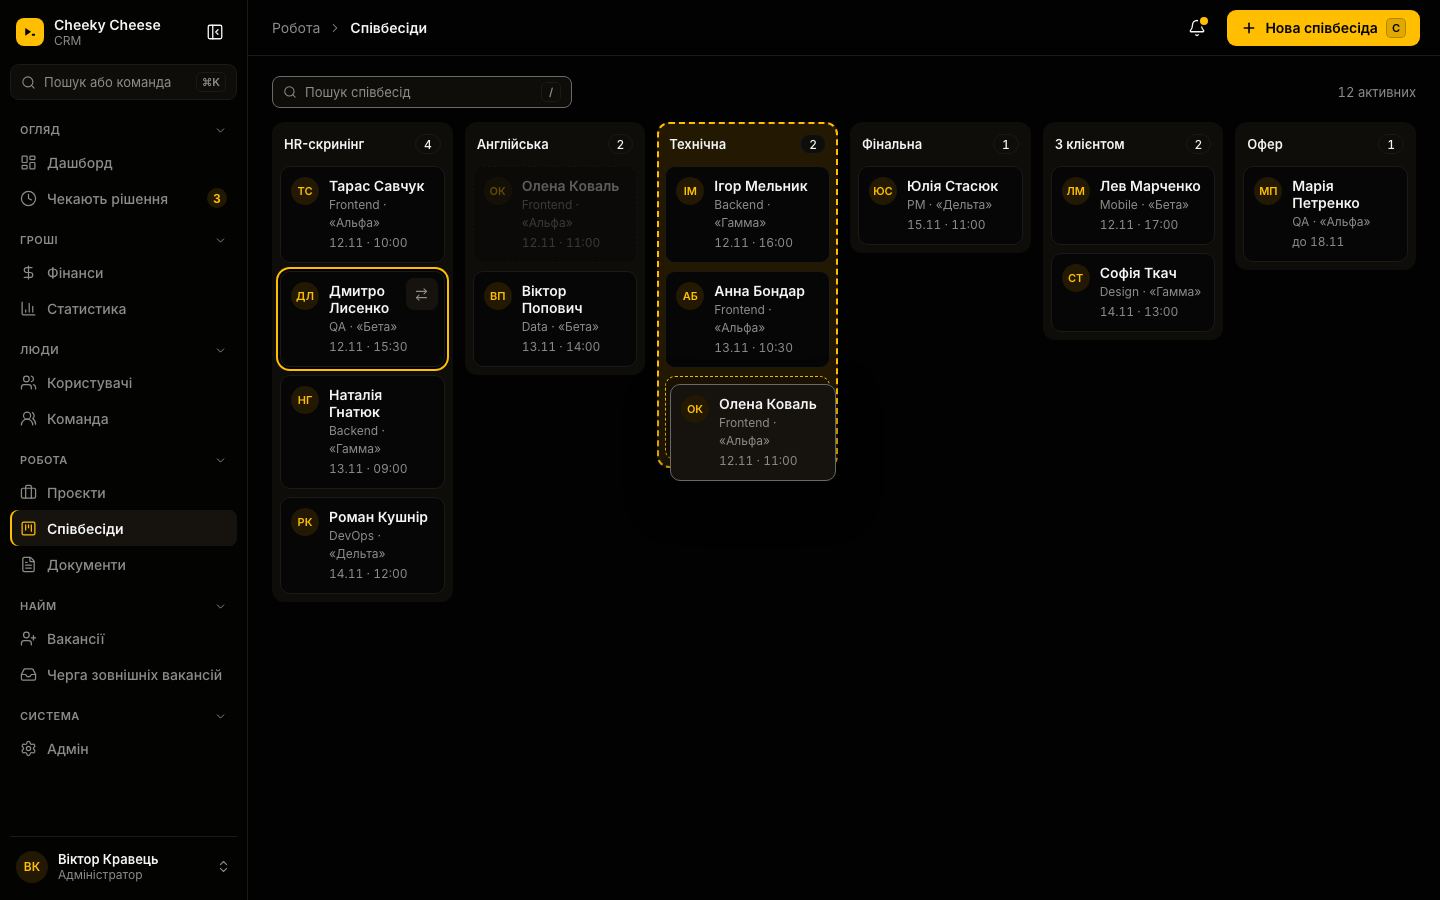
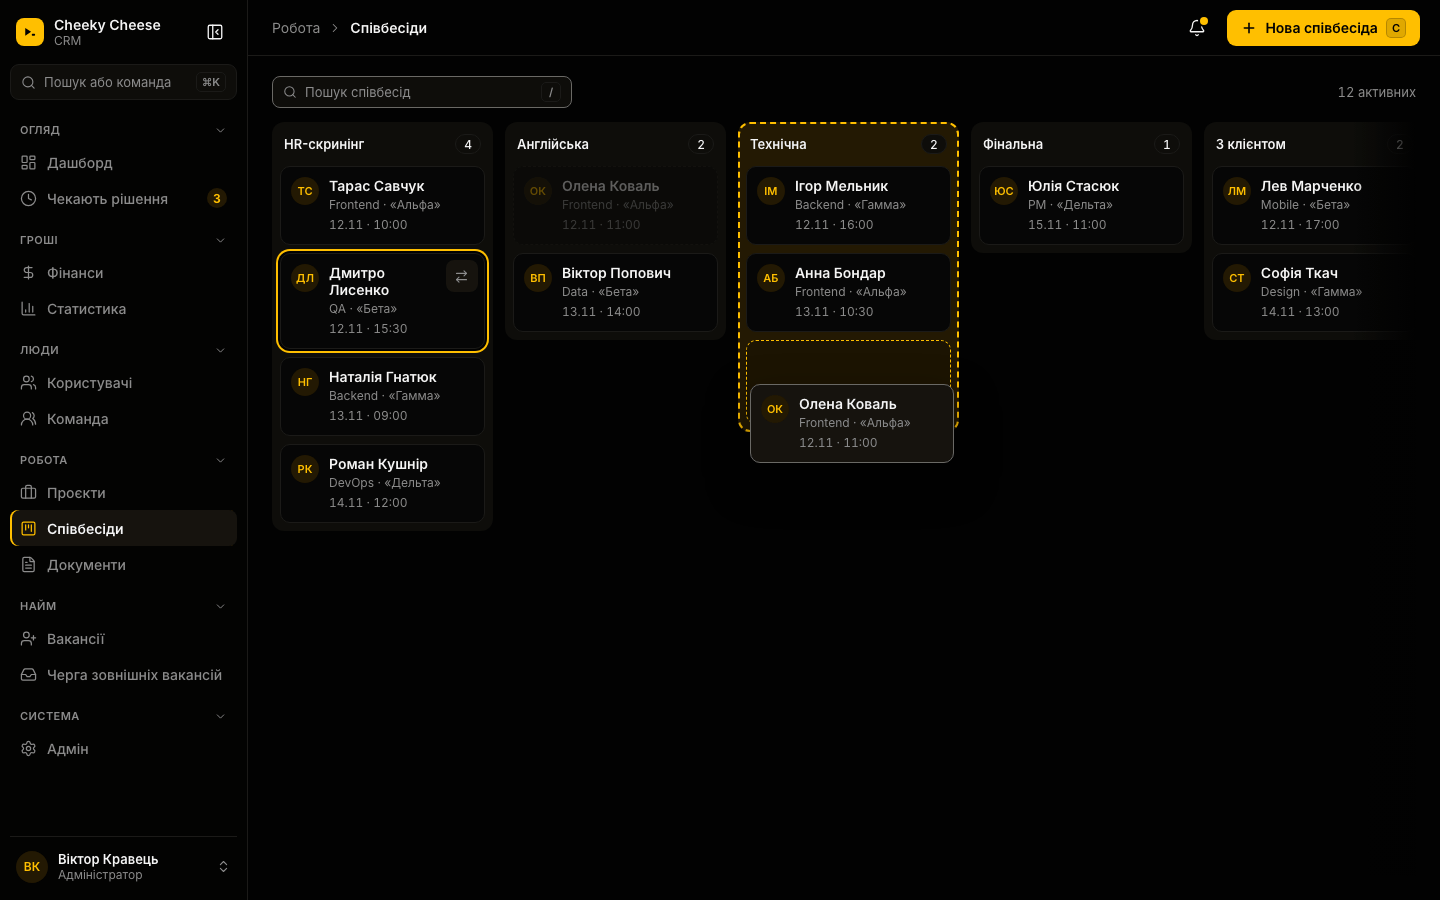
wip: design council r6 — R5-14 board widths, R5-15 save error labels

Changed region(s): [[0.3125, 0.1244, 0.9375, 0.5289], [0.1875, 0.2178, 0.3438, 0.6222]]

diff --git a/docs/design/screens/_foundation/primitives-v2.md b/docs/design/screens/_foundation/primitives-v2.md
@@ -175,7 +175,7 @@ translucent bar with blur while stuck; date sections show the day total on the r
 loaded page hides its total until the next page loads (no extra request).
 **Row rule:** §12.0 holds it for every row at every width (`listrow-sticky-320`, `list-footer-375`, `list-footer-320`, `listrow-768`); no other passage restates it.
 
-**Board** (`board-1440`, `board-768`, `board-stage-sheet-375`, `board-undo-375`, `board-hire-confirm-375`; today the interviews pipeline). At ≥ 640: one column per active stage, `minmax(180px, 1fr)` capped at 280 px, so the columns share the width and no stage is clipped while space is left (`board-1440`). Only when the stages do not fit at 180 px does the board scroll sideways: a fade on the clipped edge, plus a visible scrollbar for the mouse (`board-768`). A touch drag held within 48 px of the board's left or right edge scrolls the board that way. The column header holds the stage name and its count
+**Board** (`board-1440`, `board-768`, `board-stage-sheet-375`, `board-undo-375`, `board-hire-confirm-375`; today the interviews pipeline). At ≥ 640: one column per active stage; **column widths are the one rule in §12 Board (R5-14)**. When the stages do not fit, the board scrolls sideways: a fade on the clipped edge, plus a visible scrollbar for the mouse (`board-768`, `board-1440`). A touch drag held within 48 px of the board's left or right edge scrolls the board that way. The column header holds the stage name and its count
 (`tabular-nums`; the accessible name reads «Технічна, 2»). A card shows initials, the name (wraps, never
 truncates), one muted line (role · project) and a date (`tabular-nums`). **Card states:** rest; at a fine pointer, hover or focus shows a 32 px «Змінити етап» button in the top-right corner (tooltip «Змінити етап (M)»; focus ring per foundation §13); under `(pointer: coarse)` that button is always visible with a 44 px hit area (foundation §13, `board-768`); the **drag
 source** stays in place at 35 % opacity with a dashed border; the **lifted card** follows the pointer,
@@ -708,7 +708,7 @@ Re-render: `node assets/src/render.mjs primitives [filter]`, then `assets/src/co
   definite = 4xx + app 500 / 503; unknown = 502 / 504 / 524, a drop after send, a client timeout.
 - The 768 / 1440 toast, upload pill and skeleton frames show placement and metrics; the screen specs own
   the content.
-- The board's `M` key and the `minmax(180px, 1fr)` column capped at 280 px are settled (council R11); the interviews screen spec only places them.
+- The board's `M` key and the column widths (§12 Board) are settled; the interviews screen spec only places them.
 
 ## 12. Council rules (r1, r2)
 
@@ -922,9 +922,12 @@ Columns follow the **container**, not the viewport (R1-07): one column below 560
 ### Board (F0-38)
 
 - Card meta takes two lines (role · project, then the date); it wraps, never truncates.
-- On the touch tablet (640–899) the columns are 290 px (R4-14): two fit whole at 768 and the third peeks
-  under the end fade, so a name stays on one line, the meta never breaks after «·» and a count badge is
-  never cut (`board-768`).
+- **Column widths (the one rule; R4-14, R5-14).** Touch tablet (640–899): a fixed 290 px; two fit whole at
+  768 and the third peeks under the end fade (`board-768`). Everywhere else: `minmax(220px, 280px)`, the
+  columns share the width; when the stages do not fit at 220 px the board scrolls sideways with the edge
+  fade (`board-1440`: six stages, five whole). So a name stays on one line (a focused card's «Етап» button
+  may push a long name to a second line), the meta takes at most two lines, «·» binds to the item after it
+  (NBSP: «Frontend · «Альфа»» never breaks inside) and a count badge is never cut.
 
 ### Tab-bar strip (F0-39)
 

diff --git a/docs/design/foundation.md b/docs/design/foundation.md
@@ -370,7 +370,10 @@ reference widths below. Mobile-first: the base is mobile, scale up with `sm` / `
   - **Both definite cases at ≥ 640 (R4-31)** happen in the open side panel, the same way: the alert tops
     the panel body and takes focus, a field error sits inline under its field, the primary stays enabled,
     no toast and no pill, and the panel never closes on its own (`primitives-v2/save-error-offline-768`,
-    `primitives-v2/save-error-definite-1024`).
+    `primitives-v2/save-error-definite-1024`). **The primary per case (R5-15), every class:** offline or a
+    server error with no field → «Повторити збереження» (the same payload is resent); a field error →
+    «Зберегти» (the user changes the field first). A create says «Транзакцію не надіслано»; an edit says
+    «Зміни не збережено» («Немає з’єднання. Зміни залишились у формі.»).
   - **Unknown** — it may have committed: a 502 / 504 from the gateway, a Cloudflare 524 (prod sits behind
     Cloudflare), a connection dropped after sending, or a client timeout. On a form without a key the
     alert reads «Відповідь не надійшла. Форма й чек залишились. Перевірте список: якщо транзакції там
